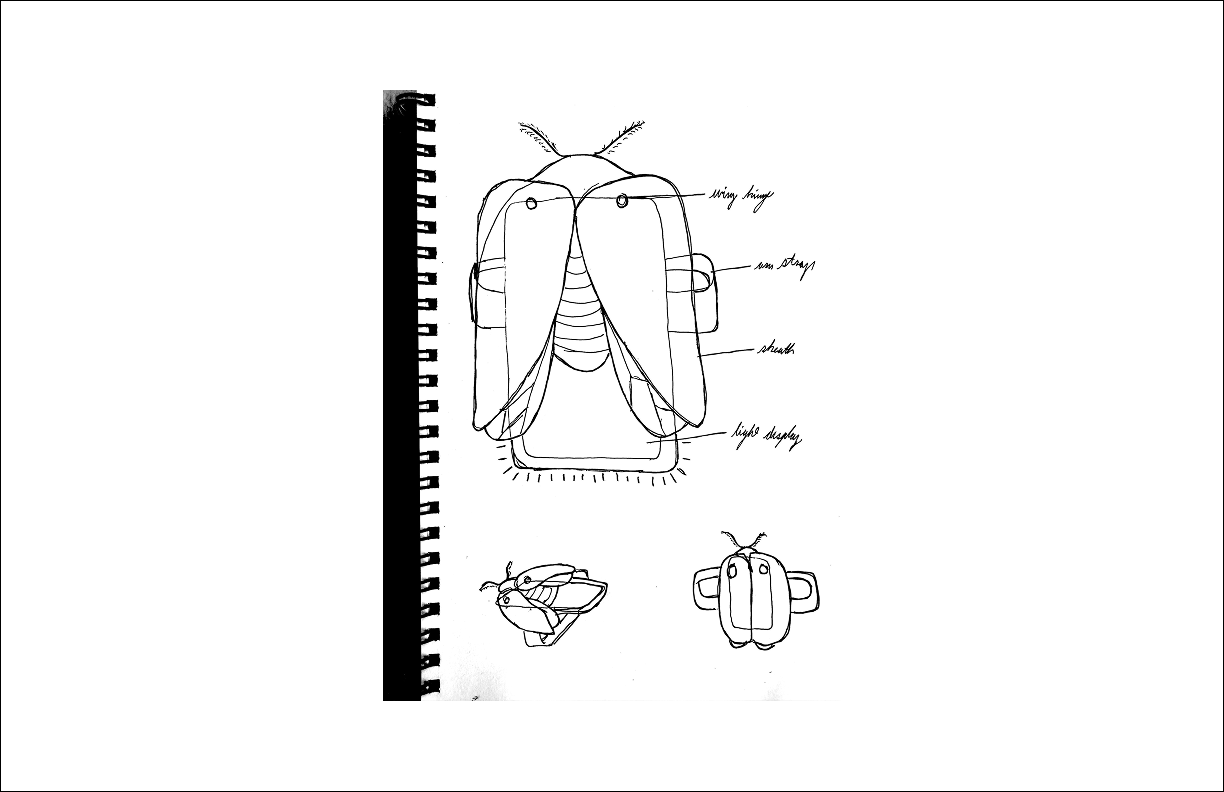
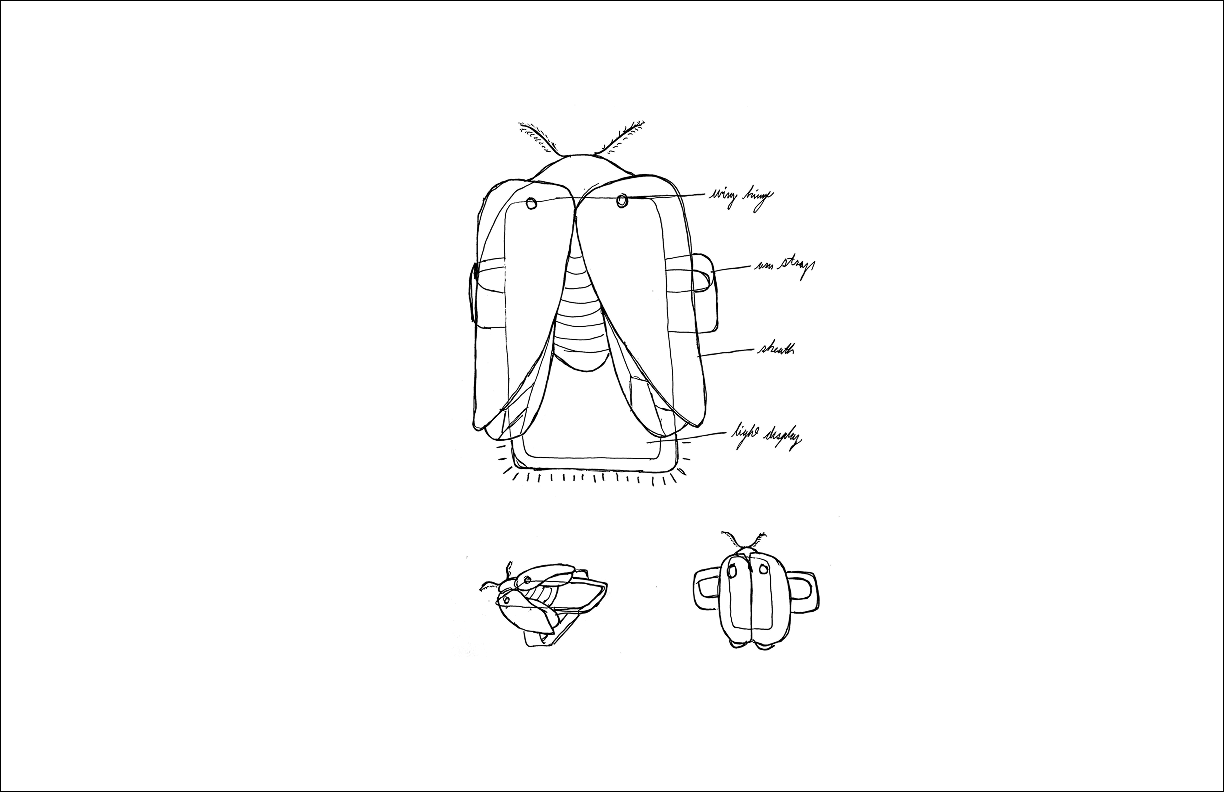
Summarize README.md Lab 1

Changed region(s): [[0.3105, 0.0909, 0.3725, 0.9091], [0.3725, 0.8788, 0.4036, 0.9091]]

diff --git a/Lab 1/README.md b/Lab 1/README.md
@@ -229,14 +229,13 @@ We explored forms that would accommodate an iPhone while remaining visible to bo
 
 ![Sketch 1](assets/sketch1.png)
 ![Sketch 2](assets/sketch2.png)
-
 ![Costume 1](assets/costume.png)
 ![AI Costume](assets/ai_image.png)
 
 _AI Usage:_ Firefly-inspired bicep wearable generated with ChatGPT (DALL-E). Original sketches preserved.  
 _Original Prompt:_ "Create an image of a firefly inspired wearable device that glows and can be worn by people on their arm..."
 
-## Interaction Videos (YouTube Thumbnails)
+## Interaction Videos
 
 [![Tinkerbelle Demo Thumbnail](assets/video_tinkerbelle_thumb.png)](https://youtu.be/spCgc1vKdgQ)  
 [Watch Tinkerbelle Demo on YouTube](https://youtu.be/spCgc1vKdgQ)
